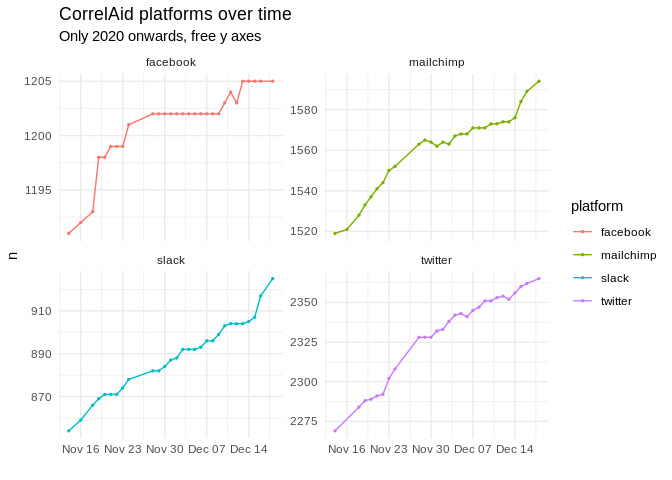
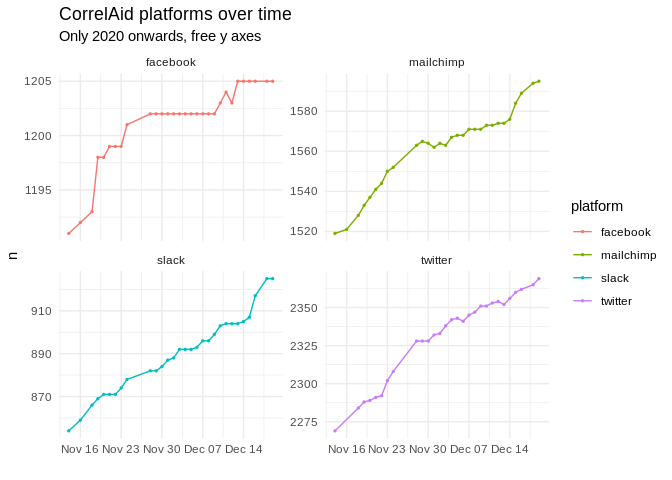
🤖 CRON - update daily data

diff --git a/README.md b/README.md
@@ -25,8 +25,8 @@ count and general network data on a daily basis using
 
 ### Plots
 
-*last updated*: 2020-12-18
-23:50:13
+*last updated*: 2020-12-19
+23:50:15
 
 ![](README_files/figure-gfm/plot-alltime-1.png)<!-- -->
 
